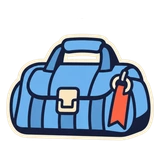
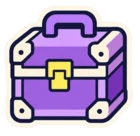
Redraw the shared game controls and ship the original illustrated UI kit

diff --git a/game/src/styles/printroomFoundation.css b/game/src/styles/printroomFoundation.css
@@ -1,0 +1,71 @@
+/* Original illustrated stock. Each role keeps its live label and its native hit area. */
+#game-container {
+  --print-ink:#201b37;
+  --print-paper:#fff6df;
+  --print-lime:#ddef38;
+  --print-coral:#fd735e;
+  --print-primary-face:url('/art/printroom/primary.webp');
+  --print-paper-face:url('/art/printroom/paper.webp');
+  --print-ink-face:url('/art/printroom/ink.webp');
+}
+
+#game-container #public-shell[data-edition=showbill][data-cast=owner-three][data-shell-family][data-inner-family][data-core-journey][data-home-demo][data-ui-pass][data-page] {
+  & .shell-header {
+    position:relative;isolation:isolate;min-height:48px;gap:8px;padding-inline:8px;
+    border:0;border-bottom:3px solid var(--print-ink);box-shadow:none;
+    background:linear-gradient(115deg,transparent 73%,#d5d4bc 73.2% 74%,transparent 74.2%),
+      linear-gradient(115deg,#fff8e6 76%,#e8e4cf 76.3%);color:var(--print-ink);
+  }
+  & .shell-header .shell-brand h1.showbill-title {
+    margin:0;padding-inline:1px 5px;background:none;color:var(--print-ink);
+    letter-spacing:.035em;font:950 clamp(19px,5.9vw,25px)/1.18 system-ui,sans-serif;text-shadow:none;
+  }
+  & .shell-header .shell-icon-button {
+    position:relative;flex:none;width:44px;min-width:44px;height:44px;min-height:44px;padding:6px;border:0;
+    background:transparent;color:var(--print-paper);box-shadow:none;border-radius:0;isolation:isolate;
+  }
+  & .shell-header .shell-icon-button::before {
+    position:absolute;z-index:-1;inset:6px 4px;content:'';display:block;width:auto;height:auto;
+    background:var(--print-ink);border:0;border-radius:5px 2px 6px 2px;clip-path:polygon(13% 0,100% 0,100% 77%,84% 100%,0 100%,0 20%);
+  }
+  & .shell-header .shell-icon-button svg {color:var(--print-paper);stroke-width:2.7}
+  & :is(.ui-home-primary .showbill-start,.ui-preflight-footer .showbill-deploy,
+       .shell-selection-footer button[data-command-face=plain],.pg-command.pg-primary[data-command-face=plain]):enabled {
+    color:#17142a;background:transparent var(--print-primary-face) center/100% 100% no-repeat!important;
+    border:0;border-radius:0;box-shadow:none;text-shadow:none;padding-inline-end:max(18px,10%);
+  }
+  & .ui-home-primary .showbill-start .ui-home-chapter {color:#2d3527}
+  & .ui-home-primary .showbill-start > svg {display:none}
+  & .shell-selection-footer button[data-command-face=plain]:enabled {justify-content:center}
+  & .ui-root-nav {
+    min-height:66px;gap:4px;padding:4px 8px;
+    background:var(--print-ink);border:0;border-top:2px solid #14132c;box-shadow:none;
+  }
+  & .ui-root-nav .ui-nav-root,
+  & .ui-root-nav .ui-nav-root:not([aria-current]) {
+    min-width:0;display:grid;grid-template-rows:33px 17px;align-content:center;justify-items:center;
+    background:transparent;color:#fff5df;border:0;border-radius:0;box-shadow:none;opacity:1;
+  }
+  & .ui-root-nav .ui-nav-root[aria-current] {
+    border:0;background:var(--print-lime);color:#18162e;box-shadow:inset 0 -3px #afc72c;
+    clip-path:polygon(7px 0,100% 0,100% calc(100% - 8px),calc(100% - 8px) 100%,0 100%,0 7px);
+    opacity:1;
+  }
+  & .ui-root-nav .ui-nav-root .nav-sticker {
+    display:block;width:39px;height:34px;max-width:100%;object-fit:contain;filter:none;
+  }
+  & .ui-root-nav .ui-nav-root[aria-current] .nav-sticker {width:43px;height:37px}
+  & .ui-root-nav .ui-nav-root .showbill-nav-label {
+    position:static;color:inherit;background:none;font:800 13px/16px system-ui,sans-serif;letter-spacing:.035em;text-shadow:none;
+  }
+  & :is(.home-backstage,.tour-reference-button,.ui-roster-lane .ui-actor-switch,.ui-roster-lane .roster-reference) {
+    border:0;border-radius:0;background:transparent var(--print-ink-face) center/100% 100% no-repeat!important;
+    box-shadow:none;color:var(--print-paper)!important;
+  }
+  & :is(button,summary):focus-visible {outline:3px solid #1288bb;outline-offset:-3px}
+  & button:enabled:active {filter:brightness(.88)}
+  @media (forced-colors:active) {
+    & .ui-root-nav .ui-nav-root[aria-current] {outline:2px solid Highlight;outline-offset:-3px}
+    & button:enabled {border:1px solid ButtonText}
+  }
+}

diff --git a/game/src/main.js b/game/src/main.js
@@ -50,6 +50,7 @@ import './styles/memberDetails306.css';
 import './styles/performanceInterface.css';
 import './styles/showbillMenus.css';
 import './styles/showbillBattle.css';
+import './styles/printroomFoundation.css';
 import { createPublicProfileSession } from './utils/publicProfileSession.mjs';
 import { configurePublicProfileWriteAuthority } from './utils/publicRunProgression.mjs';
 import { bindGraphicsRecovery } from './utils/graphicsRecovery.mjs';

diff --git a/01-美术/printroom/README.md b/01-美术/printroom/README.md
@@ -1,0 +1,12 @@
+# 公演手绘界面原稿
+
+本目录保留了本轮用 GPT 出图的四张原始画稿。角色立绘沿用负责人已确认的三张原画。所有可变文字、数字、锁定状态和键盘焦点都由游戏绘制，换语言和改变字号时仍可读。
+
+| 原稿 | 可单独替换的区域 | 游戏用途 |
+| --- | --- | --- |
+| nav-original.png | 左上场记板、右上话筒、左下巡演地图、右下器材箱 | 四个底栏入口 |
+| tickets-original.png | 从上至下为黄绿演出票、浅纸票、深墨票 | 确认、次操作和深底操作的文字底面 |
+| speaker-original.png | 透明底音箱贴纸 | 公演大厅的插画 |
+| rooms-original.png | 左上化妆间、右上器材间、左下档案室、右下排练场 | 模块场景及封面 |
+
+修改原稿后，在此目录运行 `bash export.sh`。脚本需要 ImageMagick，把同一构图按游戏用到的位置裁开、缩小并写为 WebP。四个导航图标保留既有运行路径，其余位于 `game/public/art/printroom/`。
